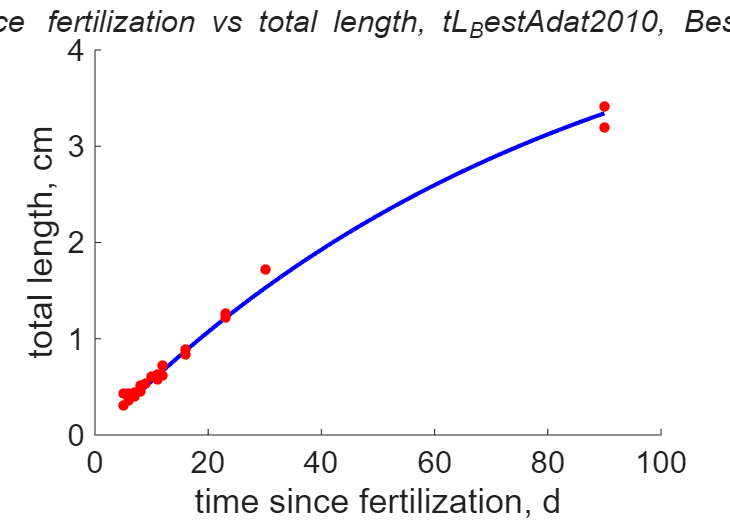
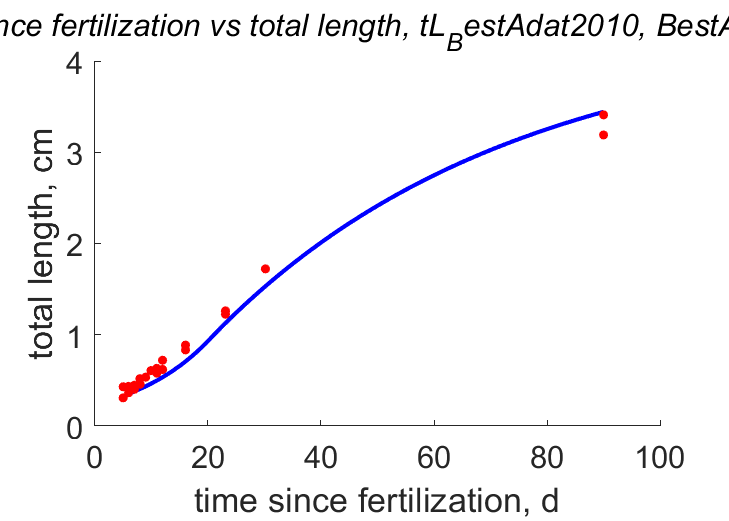
Update on completeness 2.5 estimation

diff --git a/data_2p5/Danio_rerio_res.html b/data_2p5/Danio_rerio_res.html
@@ -44,7 +44,7 @@
   </div>
 
   <div class="par">
-  <h4>COMPLETE = 2.5; MRE =    0.097; SMAE =    0.099; SMSE =    0.021 </h4>
+  <h4>COMPLETE = 2.5; MRE =    0.127; SMAE =    0.138; SMSE =    0.025 </h4>
   </div>
 
   <p class="clear"></p>
@@ -53,23 +53,22 @@
   <h2>Data & predictions</h2>
   <TABLE id="prd">
     <TR  class="head"><TH>data</TH> <TH>prd</TH> <TH>RE</TH>  <TH>symbol</TH> <TH>units</TH> <TH>description</TH> </TR>
-    <TR><TD>  5</TD> <TD>4.774</TD> <TD>0.04528</TD> <TD>ab</TD> <TD>d</TD> <TD>age at birth</TD></TR>
-    <TR><TD> 75</TD> <TD>73.14</TD> <TD>0.02482</TD> <TD>ap</TD> <TD>d</TD> <TD>age at puberty</TD></TR>
-    <TR><TD>1642</TD> <TD>1653</TD> <TD>0.006571</TD> <TD>am</TD> <TD>d</TD> <TD>life span</TD></TR>
-    <TR><TD>0.4</TD> <TD>0.2937</TD> <TD>0.2657</TD> <TD>Lb</TD> <TD>cm</TD> <TD>total length at birth</TD></TR>
-    <TR><TD>3.25</TD> <TD>3.393</TD> <TD>0.04392</TD> <TD>Lp</TD> <TD>cm</TD> <TD>total length at puberty</TD></TR>
-    <TR><TD>  5</TD> <TD>6.62</TD> <TD>0.3241</TD> <TD>Li</TD> <TD>cm</TD> <TD>ultimate total length</TD></TR>
-    <TR><TD>  1</TD> <TD>0.9527</TD> <TD>0.0473</TD> <TD>Wwi</TD> <TD>g</TD> <TD>ultimate wet weight</TD></TR>
-    <TR><TD>240</TD> <TD>225.4</TD> <TD>0.06099</TD> <TD>Ri</TD> <TD>#/d</TD> <TD>max reproduction</TD></TR>
-    <TR><TD colspan="2">see figure</TD> <TD>0.05604</TD> <TD>tL_BestAdat2010</TD> <TD colspan="2">time since fertilization <font color="blue"><i>vs.</i></font> total length</TD>
-    <TR class="psd"><TD>0.02</TD> <TD>0.01455</TD> <TD>0.2724</TD> <TD>psd.v</TD> <TD>cm/d</TD> <TD>energy conductance</TD></TR>
-    <TR class="psd"><TD> 18</TD> <TD>201.3</TD> <TD>10.19</TD> <TD>psd.p_M</TD> <TD>J/d.cm^3</TD> <TD>vol-spec som maint</TD></TR>
+    <TR><TD>  5</TD> <TD>4.08</TD> <TD>0.1839</TD> <TD>ab</TD> <TD>d</TD> <TD>age at birth</TD></TR>
+    <TR><TD> 75</TD> <TD>70.42</TD> <TD>0.06102</TD> <TD>ap</TD> <TD>d</TD> <TD>age at puberty</TD></TR>
+    <TR><TD>1642</TD> <TD>1640</TD> <TD>0.001414</TD> <TD>am</TD> <TD>d</TD> <TD>life span</TD></TR>
+    <TR><TD>0.4</TD> <TD>0.303</TD> <TD>0.2425</TD> <TD>Lb</TD> <TD>cm</TD> <TD>total length at birth</TD></TR>
+    <TR><TD>3.25</TD> <TD>3.585</TD> <TD>0.1031</TD> <TD>Lp</TD> <TD>cm</TD> <TD>total length at puberty</TD></TR>
+    <TR><TD>  5</TD> <TD>5.437</TD> <TD>0.08746</TD> <TD>Li</TD> <TD>cm</TD> <TD>ultimate total length</TD></TR>
+    <TR><TD>  1</TD> <TD>1.135</TD> <TD>0.1346</TD> <TD>Wwi</TD> <TD>g</TD> <TD>ultimate wet weight</TD></TR>
+    <TR><TD>240</TD> <TD>189</TD> <TD>0.2124</TD> <TD>Ri</TD> <TD>#/d</TD> <TD>max reproduction</TD></TR>
+    <TR><TD colspan="2">see figure</TD> <TD>0.1135</TD> <TD>tL_BestAdat2010</TD> <TD colspan="2">time since fertilization <font color="blue"><i>vs.</i></font> total length</TD>
+    <TR class="psd"><TD>0.02</TD> <TD>0.02312</TD> <TD>0.1559</TD> <TD>psd.v</TD> <TD>cm/d</TD> <TD>energy conductance</TD></TR>
+    <TR class="psd"><TD> 18</TD> <TD>254.2</TD> <TD>13.12</TD> <TD>psd.p_M</TD> <TD>J/d.cm^3</TD> <TD>vol-spec som maint</TD></TR>
     <TR class="psd"><TD>0.002</TD> <TD>0.002</TD> <TD>  0</TD> <TD>psd.k_J</TD> <TD>1/d</TD> <TD>maturity maint rate coefficient</TD></TR>
-    <TR class="psd"><TD>0.3</TD> <TD>0.05189</TD> <TD>0.827</TD> <TD>psd.k</TD> <TD>-</TD> <TD>maintenance ratio</TD></TR>
-    <TR class="psd"><TD>0.8</TD> <TD>0.3767</TD> <TD>0.5291</TD> <TD>psd.kap</TD> <TD>-</TD> <TD>allocation fraction to soma</TD></TR>
-    <TR class="psd"><TD>0.8</TD> <TD>0.801</TD> <TD>0.001312</TD> <TD>psd.kap_G</TD> <TD>-</TD> <TD>growth efficiency</TD></TR>
+    <TR class="psd"><TD>0.3</TD> <TD>0.04099</TD> <TD>0.8634</TD> <TD>psd.k</TD> <TD>-</TD> <TD>maintenance ratio</TD></TR>
+    <TR class="psd"><TD>0.8</TD> <TD>0.3482</TD> <TD>0.5647</TD> <TD>psd.kap</TD> <TD>-</TD> <TD>allocation fraction to soma</TD></TR>
+    <TR class="psd"><TD>0.8</TD> <TD>0.8032</TD> <TD>0.003986</TD> <TD>psd.kap_G</TD> <TD>-</TD> <TD>growth efficiency</TD></TR>
     <TR class="psd"><TD>0.95</TD> <TD>0.95</TD> <TD>  0</TD> <TD>psd.kap_R</TD> <TD>-</TD> <TD>reproduction efficiency</TD></TR>
-    <TR class="psd"><TD>0.01</TD> <TD>0.001367</TD> <TD>0.8633</TD> <TD>psd.s_s</TD> <TD>-</TD> <TD>supply stress</TD></TR>
   </TABLE>
   </div>
 
@@ -79,26 +78,26 @@
     <TR class="head"><TH>symbol</TH> <TH>units</TH> <TH>value</TH>  <TH>free</TH> <TH>description</TH> </TR>
     <TR><TD>T_ref</TD> <TD>K</TD> <TD>293.1</TD> <TD>0</TD> <TD>Reference temperature</TD></TR>
     <TR><TD>T_A</TD> <TD>K</TD> <TD>8000</TD> <TD>0</TD> <TD>Arrhenius temp</TD></TR>
-    <TR><TD>z</TD> <TD>-</TD> <TD>0.3393</TD> <TD>1</TD> <TD>zoom factor</TD></TR>
+    <TR><TD>z</TD> <TD>-</TD> <TD>0.206</TD> <TD>1</TD> <TD>zoom factor</TD></TR>
     <TR><TD>F_m</TD> <TD>l/d.cm^2</TD> <TD>6.5</TD> <TD>0</TD> <TD>{F_m}, max spec searching rate</TD></TR>
     <TR><TD>kap_X</TD> <TD>-</TD> <TD>0.8</TD> <TD>0</TD> <TD>digestion efficiency of food to reserve</TD></TR>
     <TR><TD>kap_P</TD> <TD>-</TD> <TD>0.1</TD> <TD>0</TD> <TD>faecation efficiency of food to faeces</TD></TR>
-    <TR><TD>v</TD> <TD>cm/d</TD> <TD>0.01455</TD> <TD>1</TD> <TD>energy conductance</TD></TR>
-    <TR><TD>kap</TD> <TD>-</TD> <TD>0.3767</TD> <TD>1</TD> <TD>allocation fraction to soma</TD></TR>
+    <TR><TD>v</TD> <TD>cm/d</TD> <TD>0.02312</TD> <TD>1</TD> <TD>energy conductance</TD></TR>
+    <TR><TD>kap</TD> <TD>-</TD> <TD>0.3482</TD> <TD>1</TD> <TD>allocation fraction to soma</TD></TR>
     <TR><TD>kap_R</TD> <TD>-</TD> <TD>0.95</TD> <TD>0</TD> <TD>reproduction efficiency</TD></TR>
-    <TR><TD>p_M</TD> <TD>J/d.cm^3</TD> <TD>201.3</TD> <TD>1</TD> <TD>[p_M], vol-spec somatic maint</TD></TR>
+    <TR><TD>p_M</TD> <TD>J/d.cm^3</TD> <TD>254.2</TD> <TD>1</TD> <TD>[p_M], vol-spec somatic maint</TD></TR>
     <TR><TD>p_T</TD> <TD>J/d.cm^2</TD> <TD>  0</TD> <TD>0</TD> <TD>{p_T}, surf-spec somatic maint</TD></TR>
     <TR><TD>k_J</TD> <TD>1/d</TD> <TD>0.002</TD> <TD>0</TD> <TD>maturity maint rate coefficient</TD></TR>
-    <TR><TD>E_G</TD> <TD>J/cm^3</TD> <TD>5223</TD> <TD>1</TD> <TD>[E_G], spec cost for structure</TD></TR>
-    <TR><TD>E_Hb</TD> <TD>J</TD> <TD>0.1141</TD> <TD>1</TD> <TD>maturity at birth</TD></TR>
-    <TR><TD>E_Hj</TD> <TD>J</TD> <TD>0.432</TD> <TD>1</TD> <TD>maturity at metam</TD></TR>
-    <TR><TD>E_Hp</TD> <TD>J</TD> <TD>380.5</TD> <TD>1</TD> <TD>maturity at puberty</TD></TR>
-    <TR><TD>h_a</TD> <TD>1/d^2</TD> <TD>5.473e-09</TD> <TD>1</TD> <TD>Weibull aging acceleration</TD></TR>
+    <TR><TD>E_G</TD> <TD>J/cm^3</TD> <TD>5209</TD> <TD>1</TD> <TD>[E_G], spec cost for structure</TD></TR>
+    <TR><TD>E_Hb</TD> <TD>J</TD> <TD>0.5251</TD> <TD>1</TD> <TD>maturity at birth</TD></TR>
+    <TR><TD>E_Hj</TD> <TD>J</TD> <TD>19.68</TD> <TD>1</TD> <TD>maturity at metam</TD></TR>
+    <TR><TD>E_Hp</TD> <TD>J</TD> <TD>2086</TD> <TD>1</TD> <TD>maturity at puberty</TD></TR>
+    <TR><TD>h_a</TD> <TD>1/d^2</TD> <TD>1.455e-09</TD> <TD>1</TD> <TD>Weibull aging acceleration</TD></TR>
     <TR><TD>s_G</TD> <TD>-</TD> <TD>0.0001</TD> <TD>0</TD> <TD>Gompertz stress coefficient</TD></TR>
     <TR><TD>V_0</TD> <TD>cm^3</TD> <TD>1e-10</TD> <TD>0</TD> <TD>initial structure of egg</TD></TR>
-    <TR><TD>del_Mt</TD> <TD>-</TD> <TD>0.07872</TD> <TD>1</TD> <TD>shape coefficient for adult</TD></TR>
+    <TR><TD>del_Mt</TD> <TD>-</TD> <TD>0.1205</TD> <TD>1</TD> <TD>shape coefficient for adult</TD></TR>
     <TR><TD>f</TD> <TD>-</TD> <TD>  1</TD> <TD>0</TD> <TD>scaled functional response</TD></TR>
-    <TR><TD>f_BestAdat2010</TD> <TD>-</TD> <TD>0.7568</TD> <TD>1</TD> <TD>scaled functional response of BestAdat2010 data</TD></TR>
+    <TR><TD>f_BestAdat2010</TD> <TD>-</TD> <TD>0.8251</TD> <TD>1</TD> <TD>scaled functional response of BestAdat2010 data</TD></TR>
   </TABLE>
   </div>
 
